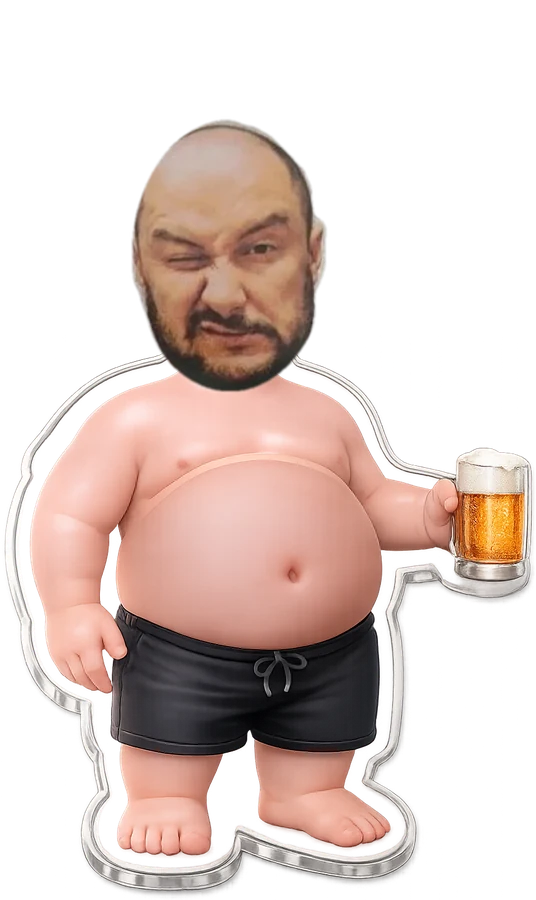
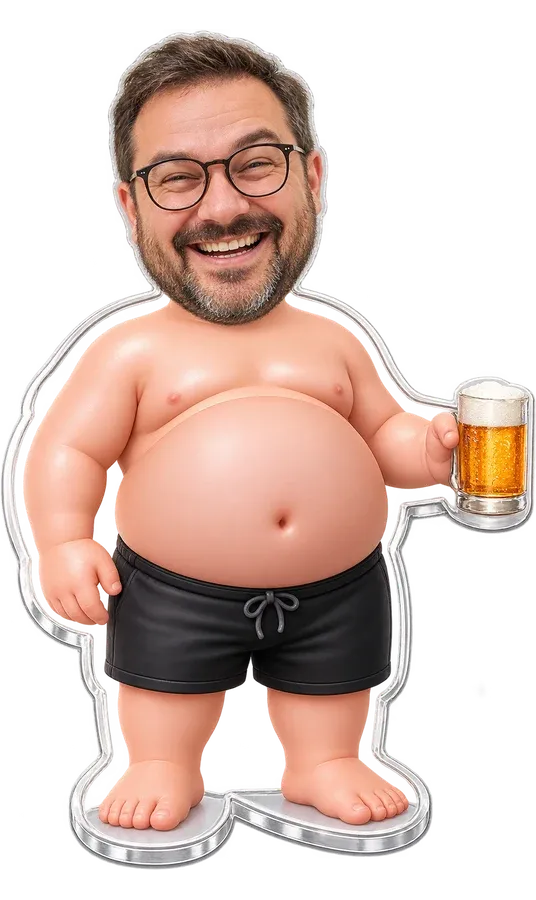
feat(photos): new faces in pose templates + wider PDP gallery
stoi-piwo preview is now a laughing woman with the tall glass, kufel a grinning
man in round glasses, lezy-piwo a winking blond — three of the six pose cards no
longer share one face. The PDP gallery grows to five shots including the couple
on the shelf and the red-haired woman with the gift box.

diff --git a/apps/storefront/src/features/constructor/ProductGallery.tsx b/apps/storefront/src/features/constructor/ProductGallery.tsx
@@ -16,8 +16,9 @@ import { useTranslations } from 'next-intl';
 const SHOTS = [
   { k: 'fridge', src: '/photos/scene-fridge-tall.webp', full: '/photos/scene-fridge-tall.webp', ar: '4/5' },
   { k: 'table', src: '/photos/scene-desk.webp', full: '/photos/scene-desk.webp', ar: '3/2' },
-  { k: 'poses', src: '/photos/scene-shelf.webp', full: '/photos/scene-shelf.webp', ar: '4/5' },
+  { k: 'couple', src: '/photos/ugc-couple-shelf.webp', full: '/photos/ugc-couple-shelf.webp', ar: '1/1' },
   { k: 'lezy', src: '/photos/real-lying-wide.webp', full: '/photos/real-lying-wide.webp', ar: '4/3' },
+  { k: 'woman', src: '/photos/ugc-woman-gift.webp', full: '/photos/ugc-woman-gift.webp', ar: '1/1' },
 ] as const;
 
 export function ProductGallery({ live }: { live: ReactNode }) {
